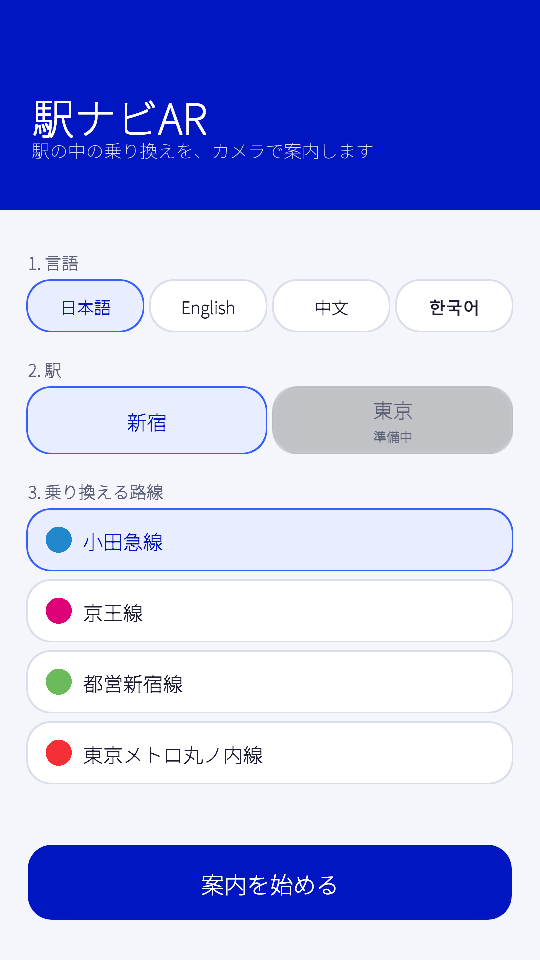
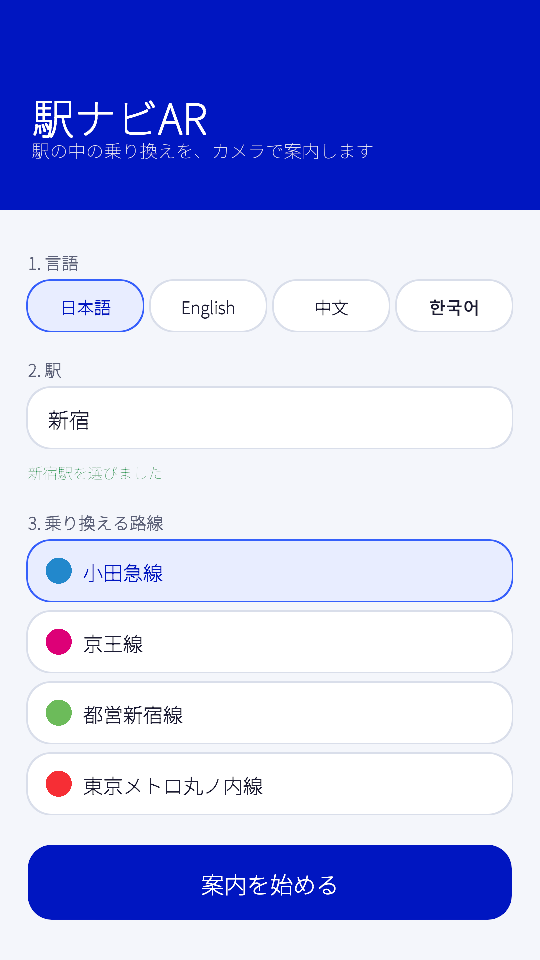
画面のボタンを押せるようにし、駅は名前を打って選ぶ形にする
- 飾りの Panel がタップを通す設定のまま Button にも使われていて、ボタンが押せなかった。Button ではタップを受けるようにした
- 駅は入力欄にした。「新宿」「しんじゅく」「Shinjuku」などで駅が決まり、乗り換える路線の選択肢が出る。打ちかけ（「しん」など）では候補を出す
- 駅が決まるまで「案内を始める」は押せない
- EkiNaviUI.cs.meta を足す

Claude-Session: https://claude.ai/code/session_01VZgJzqK5AMG3xYufUpvtVP

diff --git a/Assets/EkiNavi/Scripts/Route/EkiNaviUI.cs b/Assets/EkiNavi/Scripts/Route/EkiNaviUI.cs
@@ -44,7 +44,7 @@ namespace EkiNavi.Route
 
         Screen screen = Screen.Setup;
         string language = "ja";
-        int stationIndex;
+        int stationIndex = -1;  // 入力した駅名が見つかるまでは -1
         int destinationIndex;
         Font font;
         Sprite rounded, circle;
@@ -63,7 +63,12 @@ namespace EkiNavi.Route
 
         static readonly string[] Languages = { "ja", "en", "zh", "ko" };
         static readonly string[] LanguageLabels = { "日本語", "English", "中文", "한국어" };
-        static readonly (string ja, string en, bool ready)[] Stations = { ("新宿", "Shinjuku", true), ("東京", "Tokyo", false) };
+        // 駅の候補。読み（ひらがな・カタカナ）と英語でも見つかるようにする
+        static readonly (string ja, string en, bool ready, string[] aliases)[] Stations =
+        {
+            ("新宿", "Shinjuku", true, new[] { "新宿", "しんじゅく", "シンジュク", "shinjuku" }),
+            ("東京", "Tokyo", false, new[] { "東京", "とうきょう", "トウキョウ", "tokyo" }),
+        };
         static readonly (string ja, string en, string color)[] Destinations =
         {
             ("小田急線", "Odakyu Line", "#2288CC"),
@@ -79,6 +84,9 @@ namespace EkiNavi.Route
             ["tagline"] = ("駅の中の乗り換えを、カメラで案内します", "Camera guidance for transfers inside the station"),
             ["language"] = ("1. 言語", "1. Language"),
             ["station"] = ("2. 駅", "2. Station"),
+            ["stationPlaceholder"] = ("駅名を入力（例: 新宿）", "Enter a station (e.g. Shinjuku)"),
+            ["stationNotFound"] = ("この駅はまだ案内できません", "This station is not supported yet"),
+            ["stationSelected"] = ("{0}駅を選びました", "Selected {0} Station"),
             ["destination"] = ("3. 乗り換える路線", "3. Line to transfer to"),
             ["soon"] = ("準備中", "Coming soon"),
             ["start"] = ("案内を始める", "Start"),
@@ -215,7 +223,7 @@ namespace EkiNavi.Route
         {
             screen = next;
             foreach (var pair in screens) pair.Value.SetActive(pair.Key == next);
-            foreach (var refresh in refreshers) refresh();
+            Refresh();
         }
 
         // ---- 画面を組み立てる ----
@@ -271,36 +279,52 @@ namespace EkiNavi.Route
                 var chip = Choice(chips.transform, LanguageLabels[i], 34, () =>
                 {
                     language = Languages[index];
-                    foreach (var refresh in refreshers) refresh();
+                    Refresh();
                 });
                 refreshers.Add(() => Highlight(chip, language == Languages[index]));
             }
 
             SectionTitle(body.transform, "station");
-            var stationRow = Row(body.transform, 130, 16);
+            var field = StationField(body.transform);
+            var placeholder = (Text)field.placeholder;
+
+            // 入力の途中（「しん」「shin」など）で出す候補。押すとその駅に決まる
+            var suggestions = Row(body.transform, 110, 16);
+            var suggestionButtons = new List<Button>();
             for (int i = 0; i < Stations.Length; i++)
             {
                 int index = i;
-                var card = Choice(stationRow.transform, "", 40, () => { if (Stations[index].ready) stationIndex = index; });
-                var label = card.GetComponentInChildren<Text>();
-                refreshers.Add(() =>
+                var card = Choice(suggestions.transform, "", 36, () =>
                 {
-                    var s = Stations[index];
-                    label.text = (language == "ja" ? s.ja : s.en) + (s.ready ? "" : $"\n<size=26>{T("soon")}</size>");
-                    card.interactable = s.ready;
-                    Highlight(card, stationIndex == index);
+                    if (!Stations[index].ready) return;
+                    field.SetTextWithoutNotify(language == "ja" ? Stations[index].ja : Stations[index].en);
+                    stationIndex = index;
+                    Refresh();
                 });
+                suggestionButtons.Add(card);
             }
+            var stationNote = Label(body.transform, "", 30, SubInk, FontStyle.Normal, TextAnchor.MiddleLeft);
+            stationNote.rectTransform.sizeDelta = new Vector2(0, 50);
 
-            SectionTitle(body.transform, "destination");
+            field.onValueChanged.AddListener(text =>
+            {
+                // 読みや英語がぴったり合えば、その場で駅を決める（準備中の駅は決めない）
+                int exact = FindStation(text, exactOnly: true);
+                stationIndex = exact >= 0 && Stations[exact].ready ? exact : -1;
+                Refresh();
+            });
+
+            // 乗り換える路線は、駅が決まってから出す
+            var destinationParts = new List<GameObject> { SectionTitle(body.transform, "destination") };
             for (int i = 0; i < Destinations.Length; i++)
             {
                 int index = i;
-                var item = Choice(body.transform, "", 40, () => destinationIndex = index, 120, TextAnchor.MiddleLeft);
+                var item = Choice(body.transform, "", 40, () => { destinationIndex = index; Refresh(); }, 120, TextAnchor.MiddleLeft);
                 var label = item.GetComponentInChildren<Text>();
                 label.rectTransform.offsetMin = new Vector2(110, 16);
                 var badge = Panel(item.transform, "LineColor", Hex(Destinations[i].color), circle);
                 Anchor(badge, new Vector2(0, 0.5f), new Vector2(0, 0.5f), new Vector2(36, -26), new Vector2(88, 26));
+                destinationParts.Add(item.gameObject);
                 refreshers.Add(() =>
                 {
                     label.text = language == "ja" ? Destinations[index].ja : Destinations[index].en;
@@ -308,9 +332,42 @@ namespace EkiNavi.Route
                 });
             }
 
-            var start = PrimaryButton(page.transform, () => Show(Screen.Scan));
+            refreshers.Add(() =>
+            {
+                placeholder.text = T("stationPlaceholder");
+                string text = field.text;
+                bool chosen = stationIndex >= 0;
+                bool any = false;
+                for (int i = 0; i < Stations.Length; i++)
+                {
+                    var st = Stations[i];
+                    // 決まっていないときだけ、入力の途中に合う駅を候補として出す
+                    bool show = !chosen && !string.IsNullOrWhiteSpace(text) && MatchesStation(i, text, exactOnly: false);
+                    suggestionButtons[i].gameObject.SetActive(show);
+                    any |= show;
+                    suggestionButtons[i].interactable = st.ready;
+                    suggestionButtons[i].GetComponentInChildren<Text>().text =
+                        (language == "ja" ? st.ja : st.en) + (st.ready ? "" : $"<size=26>（{T("soon")}）</size>");
+                    Highlight(suggestionButtons[i], false);
+                }
+                suggestions.SetActive(any);
+                if (chosen)
+                    stationNote.text = string.Format(T("stationSelected"), language == "ja" ? Stations[stationIndex].ja : Stations[stationIndex].en);
+                else if (!string.IsNullOrWhiteSpace(text) && !any)
+                    stationNote.text = T("stationNotFound");
+                else
+                    stationNote.text = "";
+                stationNote.color = chosen ? Success : SubInk;
+                foreach (var part in destinationParts) part.SetActive(chosen);
+            });
+
+            var start = PrimaryButton(page.transform, () => { if (stationIndex >= 0) Show(Screen.Scan); });
             Anchor(start.gameObject, new Vector2(0, 0), new Vector2(1, 0), new Vector2(56, 80), new Vector2(-56, 230));
-            refreshers.Add(() => start.GetComponentInChildren<Text>().text = T("start"));
+            refreshers.Add(() =>
+            {
+                start.GetComponentInChildren<Text>().text = T("start");
+                start.interactable = stationIndex >= 0;  // 駅が決まるまでは押せない
+            });
             return page;
         }
 
@@ -425,11 +482,77 @@ namespace EkiNavi.Route
 
         // ---- 部品 ----
 
-        void SectionTitle(Transform parent, string key)
+        GameObject SectionTitle(Transform parent, string key)
         {
             var label = Label(parent, "", 34, SubInk, FontStyle.Bold, TextAnchor.LowerLeft);
             label.rectTransform.sizeDelta = new Vector2(0, 70);
             refreshers.Add(() => label.text = T(key));
+            return label.gameObject;
+        }
+
+        /// <summary>駅名を打つ欄。端末のキーボード（日本語の入力も）で打てる。</summary>
+        InputField StationField(Transform parent)
+        {
+            var go = Panel(parent, "StationField", Color.white, rounded);
+            go.GetComponent<Image>().raycastTarget = true;  // たたいてキーボードを出す
+            ((RectTransform)go.transform).sizeDelta = new Vector2(0, 120);
+            var outline = go.AddComponent<Outline>();
+            outline.effectDistance = new Vector2(3, -3);
+            outline.effectColor = Line;
+            var text = Label(go.transform, "", 42, Ink, FontStyle.Bold, TextAnchor.MiddleLeft);
+            text.supportRichText = false;
+            text.horizontalOverflow = HorizontalWrapMode.Overflow;
+            Stretch(text.gameObject);
+            text.rectTransform.offsetMin = new Vector2(40, 10);
+            text.rectTransform.offsetMax = new Vector2(-40, -10);
+            var placeholder = Label(go.transform, "", 38, SubInk, FontStyle.Normal, TextAnchor.MiddleLeft);
+            Stretch(placeholder.gameObject);
+            placeholder.rectTransform.offsetMin = new Vector2(40, 10);
+            placeholder.rectTransform.offsetMax = new Vector2(-40, -10);
+            var field = go.AddComponent<InputField>();
+            field.textComponent = text;
+            field.placeholder = placeholder;
+            field.lineType = InputField.LineType.SingleLine;
+            field.characterLimit = 20;
+            field.caretColor = Navy;
+            field.caretWidth = 3;
+            field.selectionColor = new Color(0.2f, 0.38f, 0.98f, 0.3f);
+            return field;
+        }
+
+        /// <summary>入力した駅名に合う駅の番号。exactOnly が false なら、打ちかけ（先頭が合う）でもよい。</summary>
+        static int FindStation(string text, bool exactOnly)
+        {
+            for (int i = 0; i < Stations.Length; i++)
+                if (MatchesStation(i, text, exactOnly)) return i;
+            return -1;
+        }
+
+        static bool MatchesStation(int index, string text, bool exactOnly)
+        {
+            string query = NormalizeStation(text);
+            if (query.Length == 0) return false;
+            foreach (var alias in Stations[index].aliases)
+            {
+                string a = NormalizeStation(alias);
+                if (a == query || (!exactOnly && a.StartsWith(query, StringComparison.Ordinal))) return true;
+            }
+            return false;
+        }
+
+        /// <summary>空白と「駅」「station」を除き、英字は小文字にそろえる。</summary>
+        static string NormalizeStation(string text)
+        {
+            if (string.IsNullOrEmpty(text)) return "";
+            string s = text.Trim().ToLowerInvariant().Replace(" ", "").Replace("\u3000", "");
+            if (s.EndsWith("station", StringComparison.Ordinal)) s = s.Substring(0, s.Length - "station".Length);
+            if (s.EndsWith("駅", StringComparison.Ordinal)) s = s.Substring(0, s.Length - 1);
+            return s;
+        }
+
+        void Refresh()
+        {
+            foreach (var refresh in refreshers) refresh();
         }
 
         GameObject Row(Transform parent, float height, float spacing)
@@ -503,6 +626,8 @@ namespace EkiNavi.Route
         Button Button(Transform parent, Color color, Sprite sprite, Action onClick)
         {
             var go = Panel(parent, "Button", color, sprite);
+            // Panel は飾りとしてタップを通すので、ボタンだけはタップを受ける
+            go.GetComponent<Image>().raycastTarget = true;
             var button = go.AddComponent<Button>();
             var colors = button.colors;
             colors.pressedColor = new Color(0.85f, 0.85f, 0.85f, 1f);
